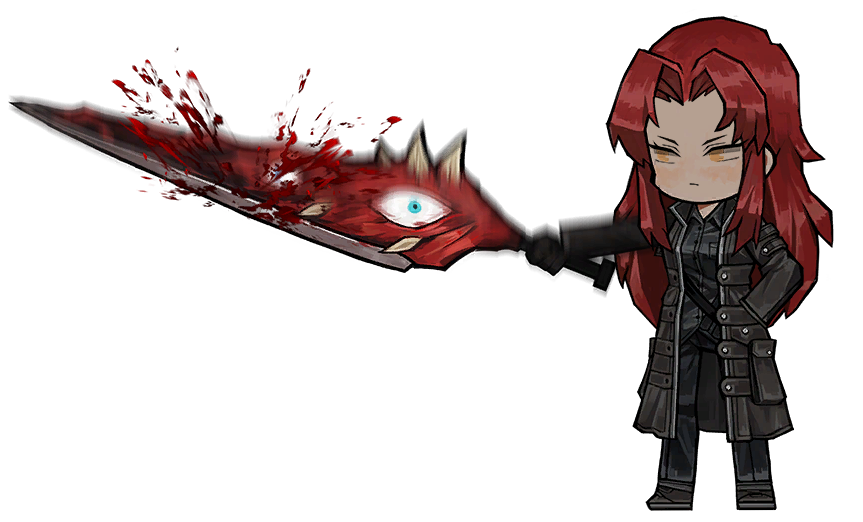
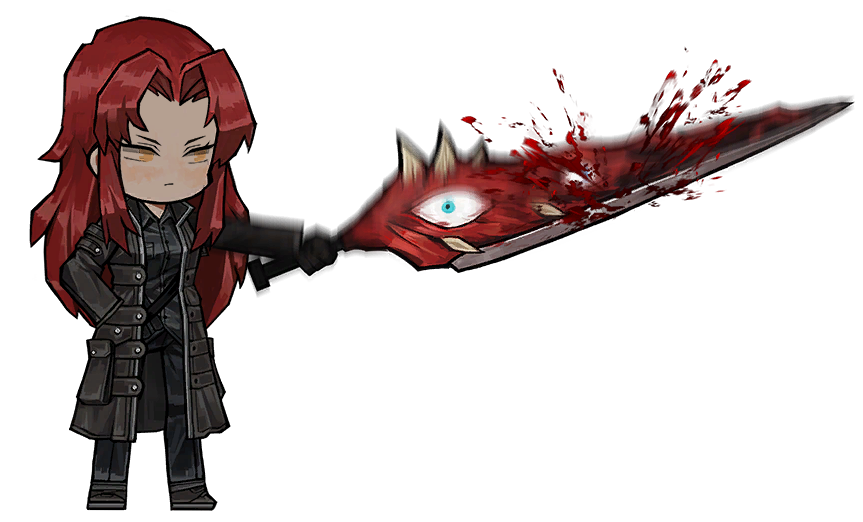
kali attack and change looping for animations, add some qol changes

diff --git a/src/Character.java b/src/Character.java
@@ -12,19 +12,15 @@ import javax.swing.*;
 
 public class Character implements ActionListener {
     String name;
-    int health, basicChain, height, width, speed, comboCounter;
-    double jumpHeight, xCoord, yCoord;;
-    double meter;
-    boolean stunned, IFrames, isGrounded, blocking;
-    private Animation animation;
+    int health, basicChain, height, width, speed, comboCounter, currentBasic;
+    double jumpHeight, xCoord, yCoord, meter;
+    boolean stunned, IFrames, isGrounded, blocking, facingRight;
+    Animation animation;
     private Animation animation2;
-    private BufferedImage temp;
     private Timer timer;
     private Timer timer2;
-    private int countdown, countdown2, aWidth, aHeight, attackDamage;
-    double temp2;
-    boolean facingRight;
-    private int animationNum;
+    int countdown, countdown2, aWidth, aHeight, attackDamage, animationNum;
+    private double temp2;
 
 
 
@@ -56,11 +52,7 @@ public class Character implements ActionListener {
         this.isGrounded=isGrounded;
         temp2=jumpHeight;
         this.attackDamage = attackDamage;
-        try {
-            temp = ImageIO.read(new File("src\\marioright.png"));
-        } catch (IOException e) {
-            throw new RuntimeException(e);
-        }
+
         // walking animation
         ArrayList<BufferedImage> images = new ArrayList<>();
         for (int i = 0; i < 6; i++) {
@@ -72,7 +64,7 @@ public class Character implements ActionListener {
                 System.out.println(e.getMessage());
             }
         }
-        animation = new Animation(images,50);
+        animation = new Animation(images,50, true);
         //Luffy.Walk.idle animation
         ArrayList<BufferedImage> images2 = new ArrayList<>();
         for (int i = 0; i < 7; i++) {
@@ -84,7 +76,7 @@ public class Character implements ActionListener {
                 System.out.println(e.getMessage());
             }
         }
-        animation2 = new Animation(images2,50);
+        animation2 = new Animation(images2,50, true);
     }
 
 
@@ -163,11 +155,11 @@ public class Character implements ActionListener {
         aWidth = width;
     }
 
-    public Rectangle attack (int locationX, int locationY, boolean direction) {
-        if (!direction) {
-            return new Rectangle(locationX, locationY, -aWidth, -aHeight);
+    public Rectangle attack () {
+        if (facingRight) {
+            return new Rectangle((int) (xCoord+width), (int) yCoord, -aWidth, -aHeight);
         }
-        return new Rectangle(locationX, locationY, aWidth, aHeight);
+        return new Rectangle((int) (xCoord-width), (int) yCoord, aWidth, aHeight);
     }
 
     public void block() {
@@ -208,9 +200,10 @@ public class Character implements ActionListener {
         if (facingRight) {
             return xCoord;
         } else {
-            return (xCoord + 150);
+            return (xCoord + width);
         }
-    } public int getWidth() {
+    }
+    public int getWidth() {
         if (facingRight) {
             return 150;
         } else {
@@ -248,6 +241,12 @@ public class Character implements ActionListener {
 
     }
 
+    public Rectangle hitbox() {
+        if (facingRight) {
+            return new Rectangle((int) xCoord, (int) yCoord, width, height);
+        }
+        return new Rectangle((int) xCoord, (int) yCoord, -width, height);
+    }
 
     public int getAttackDamage() {
         return attackDamage;

diff --git a/src/GraphicsPanel.java b/src/GraphicsPanel.java
@@ -117,6 +117,12 @@ public class GraphicsPanel extends JPanel implements ActionListener, KeyListener
 
             }
         } else {
+            if (!timer.isRunning()) {
+                timer.start();
+            }
+            if (!roundTimer.isRunning()) {
+                roundTimer.start();
+            }
             g.drawImage(background, 0, 0, null);
             g.drawImage(p1.getPlayerImage(), (int) p1.getxCoord(), (int) p1.yCoord, p1.getWidth(), p1.height, null);
             g.drawImage(healthBar, 0, 0, null);
@@ -149,12 +155,6 @@ public class GraphicsPanel extends JPanel implements ActionListener, KeyListener
             }
 
             //basic attack
-            if (pressedKeys[81]) {
-                Rectangle damageBox = p1.attack((int)p1.xCoord, (int)p1.yCoord, directionP1);
-                if (damageBox.intersects(new Rectangle((int)p2.xCoord, (int)p2.yCoord, (int)p2.xCoord - (int)p2.width, (int)p2.yCoord - (int)p2.height))) {
-                    p2.health -= p1.getAttackDamage();
-                }
-            }
 
             /*
             if (pressedKeys[69]) {//e
@@ -195,9 +195,9 @@ public class GraphicsPanel extends JPanel implements ActionListener, KeyListener
 
             // basic attack
             if (pressedKeys[97]) {
-                Rectangle damageBox = p2.attack((int)p2.xCoord,(int) p2.yCoord, directionP2);
-                if (damageBox.intersects(new Rectangle((int)p2.xCoord, (int)p2.yCoord,(int) p2.xCoord - (int)p2.width,(int) p2.yCoord - (int) p2.height))) {
-                    p1.health -= p2.getAttackDamage();
+                Rectangle damageBox = p2.attack();
+                if (damageBox.intersects(p1.hitbox())) {
+                        p1.health -= p2.getAttackDamage();
                 }
             }
 
@@ -211,12 +211,15 @@ public class GraphicsPanel extends JPanel implements ActionListener, KeyListener
 
         if (source==roundTimer) {
             countdown--;
+            if (countdown<=0) {
+                //placeholder for round end
+                System.exit(0);
+
+            }
         }
         if (source==startButton) {
             startWindow=false;
             keybindsWindow=false;
-            timer.start();
-            roundTimer.start();
             remove(startButton);
             remove(keybindsButton);
             remove(p1Controls);
@@ -241,7 +244,7 @@ public class GraphicsPanel extends JPanel implements ActionListener, KeyListener
             if (!p1Picked) {
                 try {
                     p1CharacterImage = ImageIO.read(new File("src\\CharacterSelectionAssets\\PlayerImage\\kaliSelectionPlayer.jpg"));
-                    p1 = new Character("Kali", 500, 3, 150, 150, 5, 10, 3, 0, 300, 675, false, false, true, 300);
+                    p1 = new Kali();
                 } catch (IOException ex) {
                     throw new RuntimeException(ex);
                 }
@@ -294,6 +297,13 @@ public class GraphicsPanel extends JPanel implements ActionListener, KeyListener
             int x = e.getKeyCode();
             pressedKeys[x] = false;
             p1.setAnimationNum(2);
+        }
+        if (e.getKeyCode()==81) {
+            Rectangle damageBox = p1.attack();
+            System.out.println("p1 attack");
+            if (damageBox.intersects(p2.hitbox())) {
+                p2.health -= p1.getAttackDamage();
+            }
         }
     }
 

diff --git a/src/Animation.java b/src/Animation.java
@@ -8,16 +8,28 @@ public class Animation implements ActionListener {
     private ArrayList<BufferedImage> frames;
     private Timer timer;
     private int currentFrame;
+    private boolean loop;
 
-    public Animation(ArrayList<BufferedImage> frames, int delay) {
+    public Animation(ArrayList<BufferedImage> frames, int delay, boolean loop) {
         this.frames = frames;
         currentFrame = 0;
         timer = new Timer(delay, this);
         timer.start();
+        this.loop=loop;
     }
 
     public BufferedImage getActiveFrame() {
         return frames.get(currentFrame);
+    }
+
+    public void stop() {
+        timer.restart();
+        timer.stop();
+    }
+
+    public void resume() {
+        timer.restart();
+        timer.start();
     }
 
     public void actionPerformed(ActionEvent e) {
@@ -26,6 +38,10 @@ public class Animation implements ActionListener {
             //It also uses modulus to reset the frame to the beginning after the last frame
             //In other words, this allows our animation to loop
             currentFrame = (currentFrame + 1) % frames.size();
+        }
+        if (currentFrame==frames.size()-1 && !loop){
+            stop();
+            System.out.println("stop");
         }
     }
 }

diff --git a/src/Kali.java b/src/Kali.java
@@ -1,0 +1,38 @@
+import javax.imageio.ImageIO;
+import java.awt.*;
+import java.awt.image.BufferedImage;
+import java.io.File;
+import java.io.IOException;
+import java.util.ArrayList;
+
+
+public class Kali extends Character {
+    private Animation attackAnimation;
+    ArrayList<BufferedImage> images = new ArrayList<>();
+
+    public Kali() {
+        super("Kali", 500, 3, 150, 150, 2, 10, 3, 0, 300, 675, false, false, true, 10);
+        for (int i = 1; i < 6; i++) {
+            String filename = "src\\Kali\\Attack\\Attack" + i + ".png";
+                try {
+                images.add(ImageIO.read(new File(filename)));
+            }
+            catch (IOException e) {
+                System.out.println(e.getMessage());
+            }
+        }
+        animation.stop();
+        attackAnimation = new Animation(images,50, false);
+        attackAnimation.stop();
+    }
+
+    public Rectangle attack() {
+        setAnimation(attackAnimation);
+        setAttack(30, height);
+        attackAnimation.resume();
+        if (facingRight) {
+            return new Rectangle((int) (xCoord+width), (int) (yCoord), -aWidth, -aHeight);
+        }
+        return new Rectangle((int) (xCoord-width), (int) (yCoord), aWidth, aHeight);
+    }
+}
